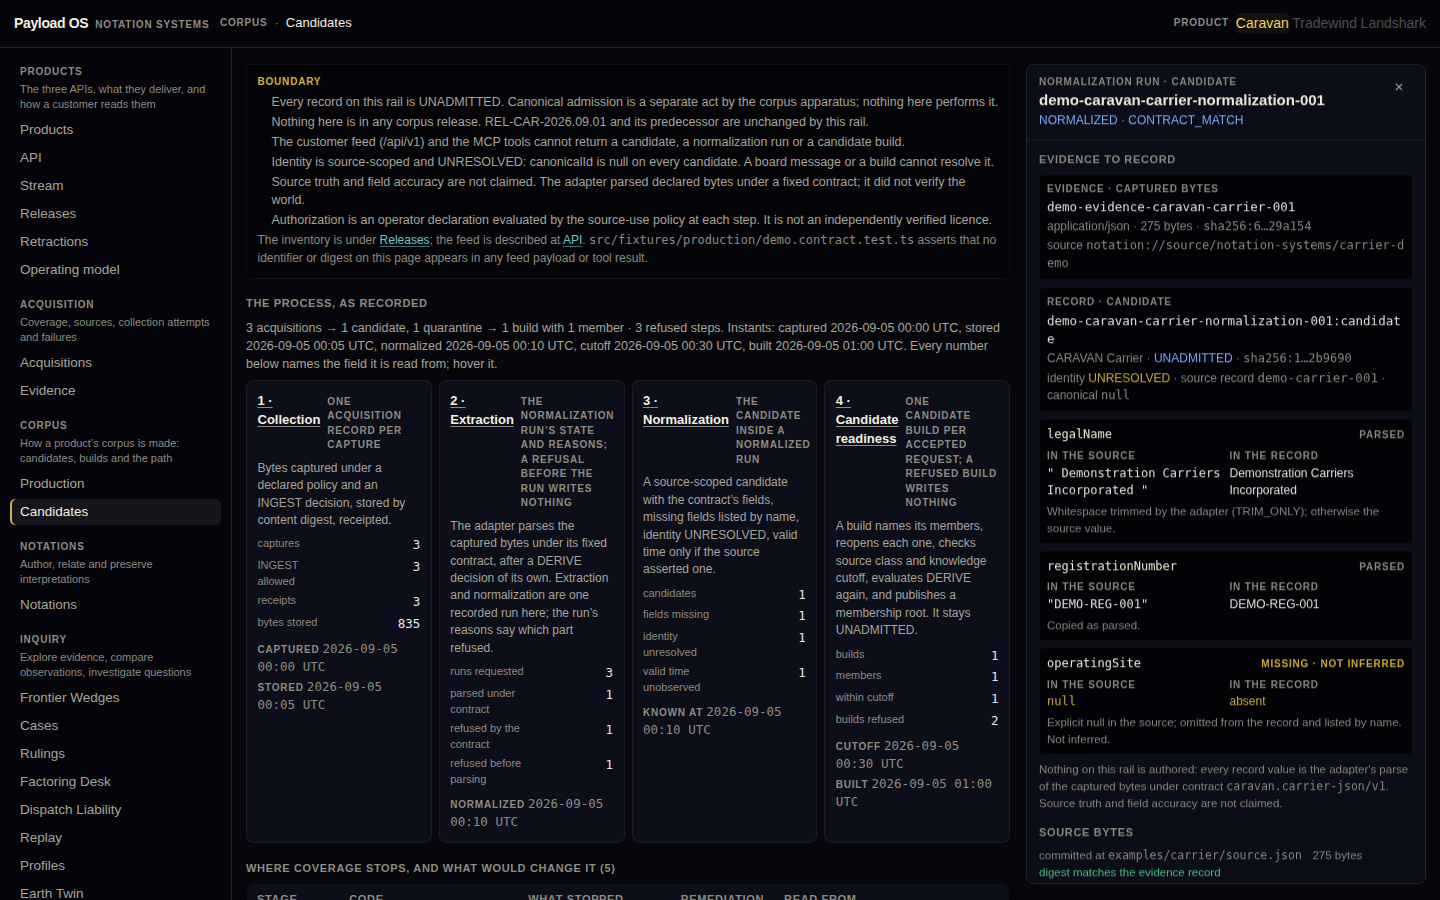
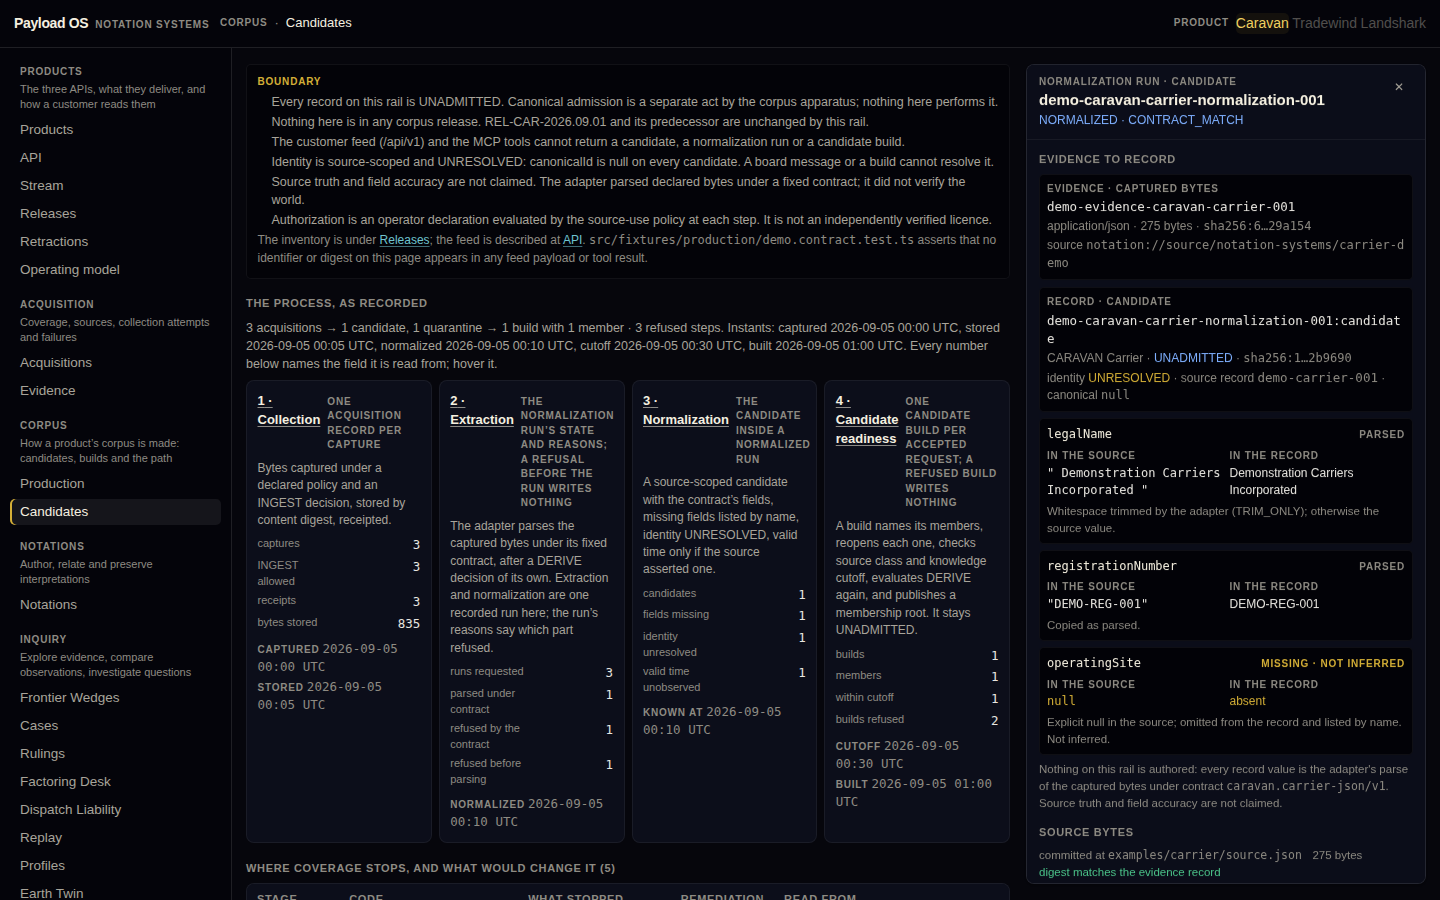
The admitted count stops being a defaulted zero, because not-checked is not none
THE ROT I LEFT

compressionAvailable took admittedRecords with a default of zero, and the model
page passed nothing. That renders "3 of 5 collapse" from a hardcoded zero rather
than from a reading, and the failure mode is the slow one: the day a record is
admitted, the page keeps saying three, correctly typed, fully tested, and wrong.
A defaulted parameter is a claim nobody has to make on purpose.

Worse than stale, though, is what the zero was asserting. This page has no store
access — admission lives at the write boundary and a Corpus value carries no
admission status — so passing zero was the page claiming a fact it had not
checked, three sections above a table it renders about exactly that mistake.

THE FIX IS THE RULE THE SYSTEM ALREADY HAS

admittedRecords is now required, and its type is number | 'UNKNOWN'. A caller
with no store access says UNKNOWN. "None have been admitted" and "I could not
check" are different facts, only one of them is a claim about the world, and an
unreadable count is not a zero — which is SILENCE IS NOT ZERO applied to the
system's reporting about itself rather than to its inputs.

Both answers block the same two steps, and the blocked reasons say which is
which: "no record has been admitted" against "the admitted count is not readable
from here, and an unreadable count is not a zero". The statement carries the
difference through to the surface, and the browser test holds the page to the
[…]

diff --git a/src/domain/compression.ts b/src/domain/compression.ts
@@ -130,12 +130,32 @@ export const WHAT_IS_BEING_CLAIMED = {
   theTest: 'For every step that collapses, name the artifact that replaces it. For every step that stays, name who is answerable. A step that collapses with no artifact named is a step somebody is still doing, uncounted.',
 } as const;
 
+/**
+ * How many records have been admitted — or that the caller cannot tell.
+ *
+ * Not a defaulted number, and deliberately not read from the corpus: admission
+ * lives at the write boundary and a Corpus value carries no admission status,
+ * so anything that reports a count has to have gone and looked. A caller with
+ * no store access must say UNKNOWN rather than passing zero, because "none have
+ * been admitted" and "I could not check" are different facts and only one of
+ * them is a claim about the world. This is the same rule the corpus applies to
+ * everything else, applied to the system's reporting about itself.
+ */
+export type AdmittedCount = number | 'UNKNOWN';
+
+export interface BlockedStep {
+  id: string;
+  needs: TrustGrade;
+  /** Why the grade is not supplied, which is not the same question as whether it is. */
+  because: string;
+}
+
 export interface CompressionStanding {
   translationSteps: number;
   judgmentSteps: number;
   /** Translation steps whose required grade the corpus currently supplies. */
   availableNow: number;
-  blocked: Array<{ id: string; needs: TrustGrade }>;
+  blocked: BlockedStep[];
   statement: string;
 }
 
@@ -143,18 +163,29 @@ export interface CompressionStanding {
  * Pure: how much of the translation stack actually collapses on what the corpus
  * holds today, rather than on what it is designed to hold.
  */
-export function compressionAvailable(corpus: Corpus, admittedRecords = 0): CompressionStanding {
+export function compressionAvailable(corpus: Corpus, admittedRecords: AdmittedCount): CompressionStanding {
+  const unknownAdmission = admittedRecords === 'UNKNOWN';
   const supplies: Record<TrustGrade, boolean> = {
     NOTHING: true,
     // A receipted observation needs records carrying provenance and both clocks.
     RECEIPTED_OBSERVATION: corpus.records.length > 0,
-    ADMITTED_RECORD: admittedRecords > 0,
+    // An unreadable count supplies nothing, and says so rather than reading as zero.
+    ADMITTED_RECORD: !unknownAdmission && admittedRecords > 0,
+  };
+  const reason = (grade: TrustGrade): string => {
+    if (grade === 'ADMITTED_RECORD') {
+      return unknownAdmission
+        ? 'the admitted count is not readable from here, and an unreadable count is not a zero'
+        : 'no record has been admitted';
+    }
+    if (grade === 'RECEIPTED_OBSERVATION') return 'the corpus carries no records';
+    return 'nothing';
   };
   const translation = STACK.filter((s) => s.layer === 'TRANSLATION');
   const judgment = STACK.filter((s) => s.layer === 'JUDGMENT');
   const blocked = translation
     .filter((s) => !supplies[s.requires ?? 'NOTHING'])
-    .map((s) => ({ id: s.id, needs: s.requires ?? 'NOTHING' }));
+    .map((s) => ({ id: s.id, needs: s.requires ?? 'NOTHING', because: reason(s.requires ?? 'NOTHING') }));
   const availableNow = translation.length - blocked.length;
   return {
     translationSteps: translation.length,
@@ -163,6 +194,6 @@ export function compressionAvailable(corpus: Corpus, admittedRecords = 0): Compr
     blocked,
     statement: blocked.length === 0
       ? `All ${translation.length} translation steps collapse on what the corpus holds, and the ${judgment.length} judgment steps remain by design.`
-      : `${availableNow} of ${translation.length} translation steps collapse on what the corpus holds; ${blocked.length} wait on evidence it does not have (${blocked.map((b) => `${b.id} needs ${b.needs}`).join(', ')}). The compression is a property of the trail rather than of the design, so it becomes available when the corpus does and not before. The ${judgment.length} judgment steps do not compress at any grade.`,
+      : `${availableNow} of ${translation.length} translation steps collapse on what the corpus holds; ${blocked.length} wait on evidence it does not have (${blocked.map((b) => `${b.id} needs ${b.needs}, and ${b.because}`).join('; ')}). The compression is a property of the trail rather than of the design, so it becomes available when the corpus does and not before. The ${judgment.length} judgment steps do not compress at any grade.`,
   };
 }

diff --git a/src/domain/compression.test.ts b/src/domain/compression.test.ts
@@ -36,6 +36,7 @@ describe('what compresses and what must not', () => {
 
   it('derives what actually collapses today, and it is not everything', () => {
     const now = compressionAvailable(CARAVAN_CORPUS, 0);
+    expect(now.blocked.every((b) => b.because === 'no record has been admitted')).toBe(true);
     expect(now.judgmentSteps).toBe(3);
     expect(now.translationSteps).toBe(5);
     // The steps needing an admitted record are blocked, because there are none.
@@ -54,5 +55,17 @@ describe('what compresses and what must not', () => {
     // And an empty corpus collapses almost nothing.
     const empty = compressionAvailable({ ...CARAVAN_CORPUS, records: [] }, 0);
     expect(empty.availableNow).toBe(1);
+  });
+
+  it('will not let an unreadable admitted count render as a zero', () => {
+    const known = compressionAvailable(CARAVAN_CORPUS, 0);
+    const unknown = compressionAvailable(CARAVAN_CORPUS, 'UNKNOWN');
+    // The same steps are blocked either way — but for different reasons, and the
+    // difference is the whole point: not-checked is not the same as none.
+    expect(unknown.availableNow).toBe(known.availableNow);
+    expect(unknown.blocked.map((b) => b.id)).toEqual(known.blocked.map((b) => b.id));
+    expect(unknown.blocked.every((b) => b.because.includes('not readable from here'))).toBe(true);
+    expect(unknown.statement).toContain('an unreadable count is not a zero');
+    expect(known.statement).not.toContain('unreadable');
   });
 });

diff --git a/src/app/model/page.tsx b/src/app/model/page.tsx
@@ -49,7 +49,11 @@ export default function ProductPage() {
   const decision = evaluateRelease(CARAVAN_CORPUS, vehicleRelease, condition, '2026-08-20T00:00:00Z');
   const exposure = exposureAfter(CARAVAN_CORPUS, vehicleRelease, decision, '2026-09-01T12:00:00Z');
   const window = restatementExposure(CARAVAN_CORPUS);
-  const compression = compressionAvailable(CARAVAN_CORPUS, 0);
+  // UNKNOWN rather than 0: this page is a server component over the committed
+  // fixtures with no store access, and admission lives at the write boundary.
+  // Reporting zero would be claiming a fact it did not check — the same mistake
+  // it renders a table about three sections down.
+  const compression = compressionAvailable(CARAVAN_CORPUS, 'UNKNOWN');
   return (
     <div className="p-3 sm:p-5 max-w-[1000px] mx-auto w-full flex flex-col gap-6">
       <header className="flex flex-col gap-2">

diff --git a/tests/e2e/smoke.spec.ts b/tests/e2e/smoke.spec.ts
@@ -256,6 +256,8 @@ test('the model page separates translation from judgment, and counts what actual
   // And the count is derived, not claimed: two steps wait on an admitted record.
   await expect(page.getByTestId('compression-standing')).toContainText('3 of 5');
   await expect(page.getByTestId('compression-standing')).toContainText('a property of the trail rather than of the design');
+  // The page cannot reach the write boundary, so it says so rather than reporting a zero it did not check.
+  await expect(page.getByTestId('compression-standing')).toContainText('an unreadable count is not a zero');
 });
 
 test('the model page keeps the kinds of no apart, each with the mechanism that enforces it', async ({ page }) => {

diff --git a/docs/COMPRESSION.md b/docs/COMPRESSION.md
@@ -55,7 +55,25 @@ the ambition.
 
 `compressionAvailable` computes it rather than asserting it. Over the committed
 corpus today: **3 of 5** translation steps collapse. Re-examination and multi-hop
-settlement are blocked, because both need an admitted record and there are none.
-The compression becomes available when the corpus does, and not before.
+settlement are blocked, because both need an admitted record. The compression
+becomes available when the corpus does, and not before.
+
+### The admitted count is not a defaulted zero
+
+`admittedRecords` is a **required** argument of type `number | 'UNKNOWN'`, and it
+is deliberately not read from the `Corpus` value — admission lives at the write
+boundary and a corpus carries no admission status, so anything reporting a count
+has to have gone and looked.
+
+A caller with no store access must pass `'UNKNOWN'`, not `0`. *"None have been
+admitted"* and *"I could not check"* are different facts and only one of them is
+a claim about the world. Both block the same steps, and the blocked reasons say
+which is which — `no record has been admitted` versus `the admitted count is not
+readable from here, and an unreadable count is not a zero`.
+
+`/model` is a server component over the committed fixtures with no store access,
+so it passes `'UNKNOWN'` and renders that. Removing the default is what stops the
+number rotting: a call site that acquires store access has to change the argument
+to compile, rather than silently continuing to report a stale zero.
 
 The three judgment steps do not compress at any grade.
